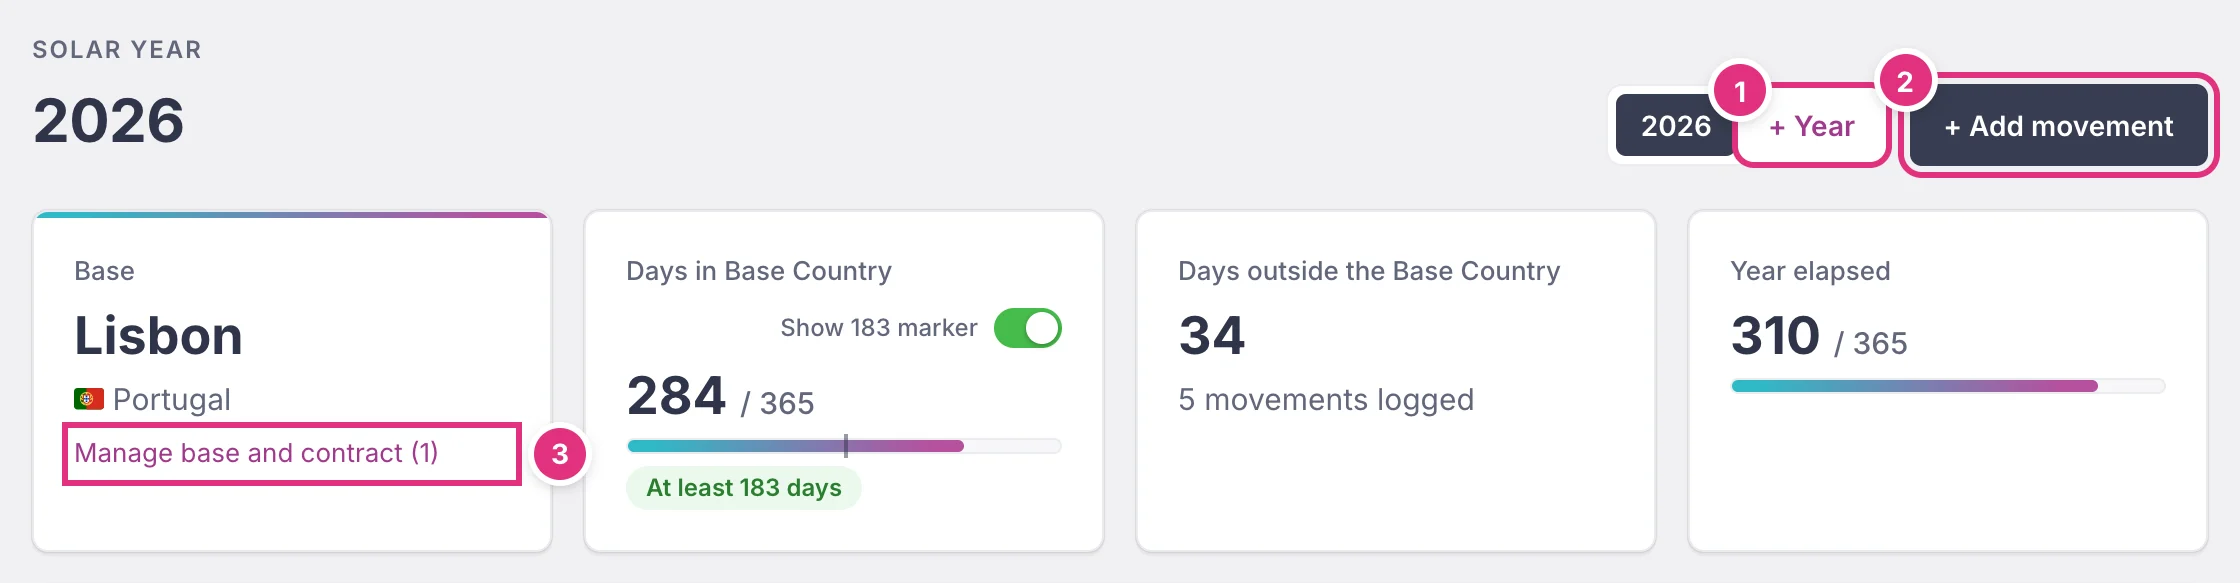
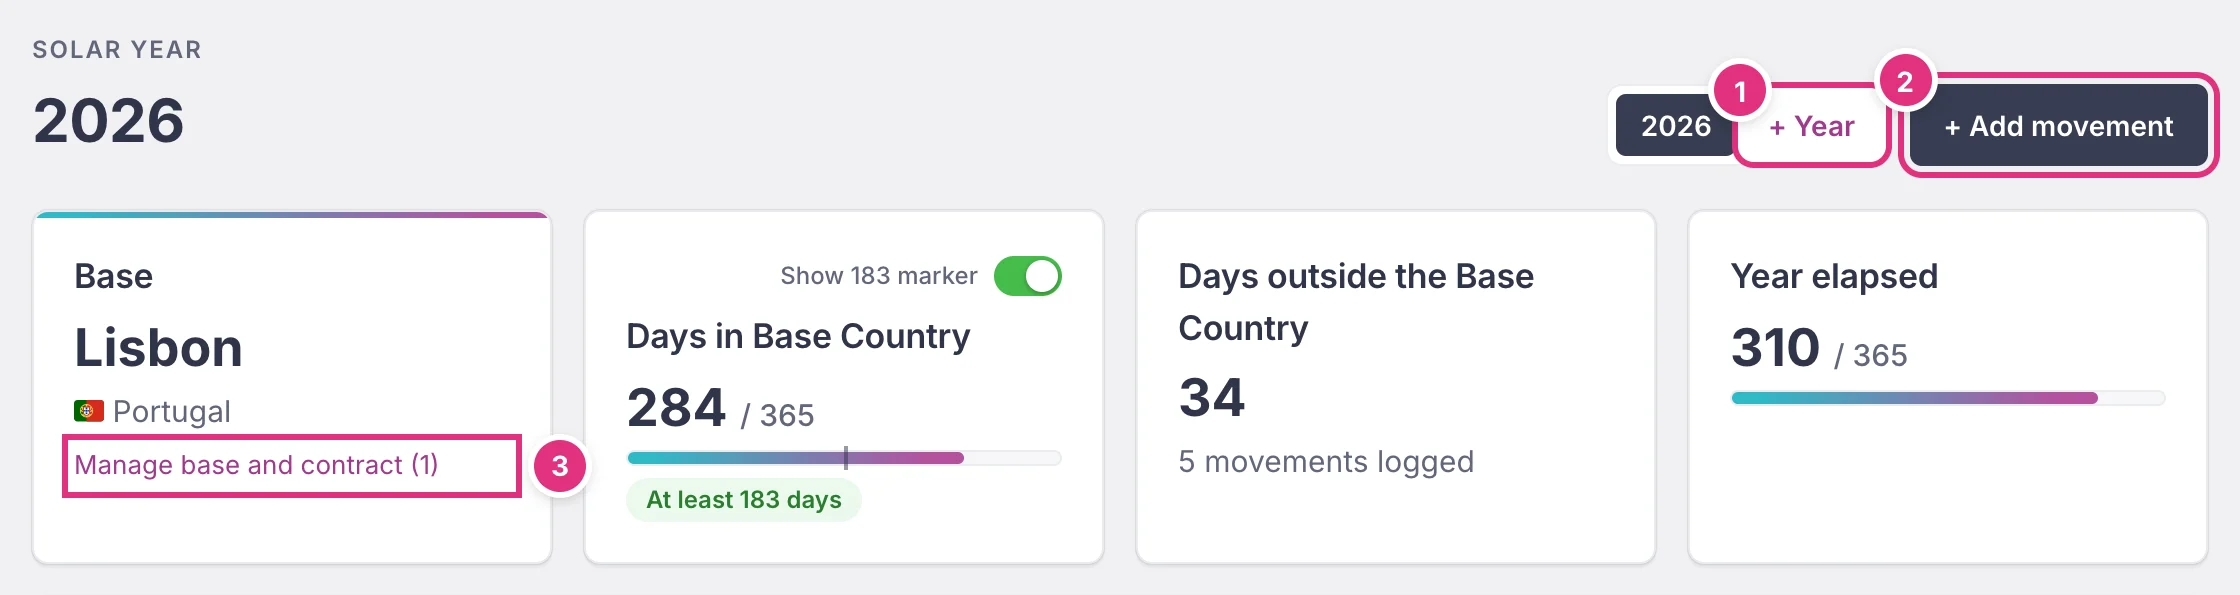
1.12.11: shared 183 marker switch on Days per Country, card titles, Back keeps saved theme and marker

diff --git a/templates/dashboard.html b/templates/dashboard.html
@@ -18,7 +18,7 @@
   </div>
 </div>
 
-<section class="stats">
+<section class="stats year-stats">
   <div class="card stat stat-base">
     <p class="stat-label">Base</p>
     <p class="stat-value">{{ y.base_city }}</p>
@@ -27,20 +27,20 @@
   </div>
   <div class="card stat">
     <div class="stat-head">
-      <p class="stat-label">Days in Base Country</p>
       {# Shown by theme.js; the choice is kept in this browser (theme-init.js applies it before
          the page is drawn). Without JavaScript the marker always shows. #}
       <button type="button" class="switch" role="switch" aria-checked="true" data-marker-switch hidden><span class="switch-label">Show {{ stats.threshold }} marker</span><span class="switch-track" aria-hidden="true"><span class="switch-thumb"></span></span></button>
+      <p class="stat-label">Days in Base Country</p>
     </div>
     <p class="stat-value">{{ stats.base_days }} <span class="muted stat-of">/ {{ stats.total }}</span></p>
     <div class="meter" aria-hidden="true">
       <span style="width: {{ (stats.base_days * 100 / stats.total) | round(1) }}%"></span>
-      <i class="base-marker" style="left: {{ (stats.threshold * 100 / stats.total) | round(1) }}%"></i>
+      <i class="day-marker" style="left: {{ (stats.threshold * 100 / stats.total) | round(1) }}%"></i>
     </div>
     {% if stats.base_ok %}
-      <p class="pill pill-ok base-marker">At least {{ stats.threshold }} days</p>
+      <p class="pill pill-ok day-marker">At least {{ stats.threshold }} days</p>
     {% else %}
-      <p class="pill pill-warn base-marker">{{ stats.threshold - stats.base_days }} day{{ '' if stats.threshold - stats.base_days == 1 else 's' }} short of {{ stats.threshold }}</p>
+      <p class="pill pill-warn day-marker">{{ stats.threshold - stats.base_days }} day{{ '' if stats.threshold - stats.base_days == 1 else 's' }} short of {{ stats.threshold }}</p>
     {% endif %}
   </div>
   <div class="card stat">
@@ -215,8 +215,10 @@
   <section class="card days-card">
     <div class="card-head">
       <h2>Days per Country</h2>
+      {# The same setting as the switch of Days in Base Country: both move together. #}
+      <button type="button" class="switch" role="switch" aria-checked="true" data-marker-switch hidden><span class="switch-label">Show {{ stats.threshold }} marker</span><span class="switch-track" aria-hidden="true"><span class="switch-thumb"></span></span></button>
     </div>
-    <p class="muted small">A day shared by two stays, such as a travel day, counts toward the stay that started later. The marker shows the {{ stats.threshold }} day line.</p>
+    <p class="muted small">A day shared by two stays, such as a travel day, counts toward the stay that started later.</p>
     <ul class="bars">
       {% for r in stats.rows %}
       <li>
@@ -226,7 +228,7 @@
         </div>
         <div class="meter {% if r.over_threshold and not r.is_base %}meter-hot{% endif %}">
           <span style="width: {{ r.pct }}%"></span>
-          <i style="left: {{ (stats.threshold * 100 / stats.total) | round(1) }}%"></i>
+          <i class="day-marker" style="left: {{ (stats.threshold * 100 / stats.total) | round(1) }}%"></i>
         </div>
       </li>
       {% endfor %}

diff --git a/static/js/theme.js b/static/js/theme.js
@@ -17,20 +17,36 @@
     });
   }
 
-  // The "Show 183 marker" switch of the Days in Base Country card: off hides the marker and its
-  // message (.base-marker) through data-marker on <html>, which theme-init.js sets again on the
-  // next page before it is drawn. Kept in this browser, for every year.
-  document.querySelectorAll("[data-marker-switch]").forEach(function (sw) {
-    var sync = function () { sw.setAttribute("aria-checked", root.getAttribute("data-marker") === "off" ? "false" : "true"); };
-    sync();
+  // The "Show 183 marker" switches of the Days in Base Country and Days per Country cards, one
+  // setting for both: off hides the marker and its message (.day-marker) through data-marker on
+  // <html>, which theme-init.js sets again on the next page before it is drawn. Kept in this
+  // browser, for every year; flipping one moves the other too.
+  var markerSwitches = document.querySelectorAll("[data-marker-switch]");
+  var syncMarkerSwitches = function () {
+    var on = root.getAttribute("data-marker") === "off" ? "false" : "true";
+    markerSwitches.forEach(function (sw) { sw.setAttribute("aria-checked", on); });
+  };
+  // A page brought back by the Back button (back/forward cache) keeps the theme and marker it
+  // had then, although they may have been changed on another page since: apply the saved ones
+  // again, as theme-init.js does on a fresh load.
+  window.addEventListener("pageshow", function (e) {
+    if (!e.persisted) return;
+    var theme = null, off = false;
+    try { theme = localStorage.getItem("theme"); off = localStorage.getItem("nl_marker") === "off"; } catch (x) {}
+    if (theme === "light" || theme === "dark") root.setAttribute("data-theme", theme); else root.removeAttribute("data-theme");
+    if (off) root.setAttribute("data-marker", "off"); else root.removeAttribute("data-marker");
+    syncMarkerSwitches();
+  });
+  markerSwitches.forEach(function (sw) {
     sw.hidden = false;
     sw.addEventListener("click", function () {
       var off = root.getAttribute("data-marker") !== "off";
       if (off) root.setAttribute("data-marker", "off"); else root.removeAttribute("data-marker");
       try { if (off) localStorage.setItem("nl_marker", "off"); else localStorage.removeItem("nl_marker"); } catch (e) {}
-      sync();
+      syncMarkerSwitches();
     });
   });
+  syncMarkerSwitches();
 
   // The support button in the header glows slowly until this browser has opened the support
   // pages once, so people notice it is new. A new reply makes it glow again (set by the server).

diff --git a/static/css/style.css b/static/css/style.css
@@ -306,14 +306,17 @@ main:focus { outline: none; }
 .stats { display: grid; grid-template-columns: repeat(4, 1fr); gap: 16px; margin-bottom: 4px; }
 .stat { display: flex; flex-direction: column; gap: 6px; }
 .stat-label { font-size: 13px; color: var(--muted); font-weight: 500; }
+.year-stats .stat-label { font-size: 17px; font-weight: 600; letter-spacing: -0.01em; color: var(--text); }  /* the dashboard's four cards: the same as the card titles below (h2) */
 .stat-value { font-size: 26px; font-weight: 700; line-height: 1.2; overflow-wrap: anywhere; }
 .stat-of { font-size: 15px; font-weight: 500; }
 .stat-base { position: relative; overflow: hidden; }
 .stat-base::before { content: ""; position: absolute; inset: 0 0 auto 0; height: 3px; background: var(--gradient); }
-.stat-head { display: flex; align-items: center; justify-content: space-between; flex-wrap: wrap; gap: 6px 10px; }
+.stat-head { display: flex; flex-direction: column; gap: 6px; }
+.stat-head .switch { align-self: flex-end; }  /* above the title, at the top right */
 
 /* iOS style switch (role="switch", aria-checked), here for the 183 day marker of the Days in
-   Base Country card. Off hides everything marked .base-marker; theme-init.js sets data-marker
+   Base Country and Days per Country cards, one setting for both. Off hides everything marked
+   .day-marker; theme-init.js sets data-marker
    on <html> before the page is drawn, so the saved choice never flashes. */
 .switch {
   display: inline-flex; align-items: center; gap: 8px; margin-left: auto; padding: 2px 0; border: 0;
@@ -328,7 +331,7 @@ main:focus { outline: none; }
 .switch[aria-checked="true"] .switch-thumb { transform: translateX(14px); }
 @media (prefers-reduced-motion: reduce) { .switch-track, .switch-thumb { transition: none; } }
 @media (forced-colors: active) { .switch-track { border: 1px solid CanvasText; } .switch-thumb { forced-color-adjust: none; background: CanvasText; } }
-[data-marker="off"] .base-marker { display: none !important; }
+[data-marker="off"] .day-marker { display: none !important; }
 
 .meter { position: relative; height: 8px; border-radius: 4px; background: var(--surface-2); border: 1px solid var(--border); overflow: visible; }
 .meter span { display: block; height: 100%; border-radius: 4px; background: var(--gradient); }

diff --git a/templates/docs.html b/templates/docs.html
@@ -196,7 +196,7 @@
           <h3>The four cards</h3>
           <ul>
             <li><strong>Base</strong>: your base city and country, and the link to manage them.</li>
-            <li><strong>Days in Base Country</strong>: days counted for your base, out of the days in the year, with the {{ threshold }} day marker. The <strong>Show {{ threshold }} marker</strong> switch hides the marker and its message; this browser remembers it.</li>
+            <li><strong>Days in Base Country</strong>: days counted for your base, out of the days in the year, with the {{ threshold }} day marker. The <strong>Show {{ threshold }} marker</strong> switch, here and on Days per Country, hides the marker and its message on both cards; this browser remembers it.</li>
             <li><strong>Days outside the Base Country</strong>: days counted for every other country.</li>
             <li><strong>Year elapsed</strong>: how far into the year today is.</li>
           </ul>

diff --git a/tests/test_marker_switch.py b/tests/test_marker_switch.py
@@ -19,7 +19,7 @@ class MarkerSwitchTests(AppTestCase):
 
     def card(self, year):
         html = self.client.get(f"/year/{year}").get_data(as_text=True)
-        start = html.index('<p class="stat-label">Days in Base Country</p>')
+        start = html.index('<div class="stat-head">')
         return html, html[start:html.index('<div class="card stat">', start)]
 
     def test_the_card_has_the_switch_and_marks_what_it_hides(self):
@@ -29,31 +29,72 @@ class MarkerSwitchTests(AppTestCase):
         self.assertIn('<button type="button" class="switch" role="switch" aria-checked="true" '
                       f'data-marker-switch hidden><span class="switch-label">Show {threshold} marker</span>',
                       card)
-        self.assertIn('<i class="base-marker" style="left:', card)
-        self.assertIn('<p class="pill pill-warn base-marker">', card)
+        self.assertIn('<i class="day-marker" style="left:', card)
+        self.assertIn('<p class="pill pill-warn day-marker">', card)
         self.assertIn('<p class="stat-label">Days outside the Base Country</p>', html)
+        # The same switch on Days per Country, one setting for both.
+        self.assertEqual(html.count(f'data-marker-switch hidden><span class="switch-label">Show {threshold} marker</span>'), 2)
         self.assertNotIn("Days abroad", html)
+
+    def test_the_switch_sits_above_the_title(self):
+        self.new_year(2030)
+        _, card = self.card(2030)
+        self.assertLess(card.index("data-marker-switch"), card.index('<p class="stat-label">Days in Base Country</p>'))
+        css = read("static", "css", "style.css")
+        self.assertIn(".stat-head .switch { align-self: flex-end; }", css)
+        # The four top cards' titles look like the card titles below them (h2).
+        self.assertIn(".year-stats .stat-label { font-size: 17px; font-weight: 600; letter-spacing: -0.01em; color: var(--text); }", css)
+        self.assertIn(".stat-label { font-size: 13px; color: var(--muted); font-weight: 500; }", css)  # admin keeps its own
 
     def test_the_pill_of_a_year_over_the_line_is_marked_too(self):
         self.new_year(2020)  # a past year: every day counts toward the base
         _, card = self.card(2020)
-        self.assertIn('<p class="pill pill-ok base-marker">At least', card)
+        self.assertIn('<p class="pill pill-ok day-marker">At least', card)
+
+
+class CountryMarkerTests(AppTestCase):
+    def test_every_country_bar_tick_is_a_marker_and_the_help_is_short(self):
+        self.signup()
+        self.new_year(2030, "Sofia", "Bulgaria")
+        self.add_movement(2030, "Rome", "Italy", "2030-03-01", "2030-03-05")
+        html = self.client.get("/year/2030").get_data(as_text=True)
+        card = html[html.index("<h2>Days per Country</h2>"):]
+        card = card[:card.index("</section>")]
+        self.assertIn("data-marker-switch hidden", card)
+        self.assertEqual(card.count('<i class="day-marker" style="left:'), 2)  # Bulgaria, Italy
+        self.assertEqual(card.count("<i "), 2)
+        self.assertIn('<p class="muted small">A day shared by two stays, such as a travel day, '
+                      'counts toward the stay that started later.</p>', card)
+        self.assertNotIn("The marker shows", html)
 
 
 class MarkerSwitchAssetTests(AppTestCase):
     def test_off_hides_the_marker_before_the_page_is_drawn(self):
         css = read("static", "css", "style.css")
-        self.assertIn('[data-marker="off"] .base-marker { display: none !important; }', css)
+        self.assertIn('[data-marker="off"] .day-marker { display: none !important; }', css)
         self.assertIn('.switch[aria-checked="true"] .switch-thumb { transform: translateX(14px); }', css)
         self.assertIn('.switch[aria-checked="true"] .switch-track { background: var(--success); }', css)
         init = read("static", "js", "theme-init.js")
         self.assertIn('localStorage.getItem("nl_marker") === "off"', init)
         self.assertIn('setAttribute("data-marker", "off")', init)
 
+    def test_back_shows_the_saved_theme_and_marker(self):
+        # A page restored by the Back button kept the theme and marker it had then: switching
+        # either one on another page and going back showed the old choice until a reload.
+        js = read("static", "js", "theme.js")
+        block = js[js.index('window.addEventListener("pageshow", function (e) {\n    if (!e.persisted) return;\n    var theme'):][:700]
+        self.assertIn('localStorage.getItem("theme")', block)
+        self.assertIn('localStorage.getItem("nl_marker") === "off"', block)
+        self.assertIn('root.setAttribute("data-theme", theme); else root.removeAttribute("data-theme");', block)
+        self.assertIn('root.setAttribute("data-marker", "off"); else root.removeAttribute("data-marker");', block)
+        self.assertIn("syncMarkerSwitches();", block)
+
     def test_the_switch_keeps_the_choice_in_this_browser(self):
         js = read("static", "js", "theme.js")
-        block = js[js.index('document.querySelectorAll("[data-marker-switch]")'):][:900]
+        block = js[js.index('var markerSwitches = document.querySelectorAll("[data-marker-switch]");'):][:2200]
         self.assertIn("sw.hidden = false;", block)
+        # Flipping one switch moves every switch on the page.
+        self.assertIn('markerSwitches.forEach(function (sw) { sw.setAttribute("aria-checked", on); });', block)
         self.assertIn('localStorage.setItem("nl_marker", "off")', block)
         self.assertIn('localStorage.removeItem("nl_marker")', block)
-        self.assertIn('sw.setAttribute("aria-checked"', block)
+        self.assertIn("syncMarkerSwitches();", block)

diff --git a/tests/test_pagination.py b/tests/test_pagination.py
@@ -127,7 +127,7 @@ class DashboardPaginationTests(AppTestCase):
     def test_stats_are_the_same_on_every_page(self):
         self.add_many(23)
         def stats(html):
-            return (re.search(r'<section class="stats">.*?</section>', html, re.S).group(0),
+            return (re.search(r'<section class="stats year-stats">.*?</section>', html, re.S).group(0),
                     re.search(r'<ul class="bars">.*?</ul>', html, re.S).group(0))
         first = stats(self.get("/year/2025"))
         for query in ["?page=2", "?page=3", "?per_page=50"]:

diff --git a/CHANGELOG.md b/CHANGELOG.md
@@ -7,14 +7,21 @@ All notable changes to this project are documented in this file.
 ### Added
 
 - **Calendar** on the year dashboard, before the Map, with a calendar icon and its year in the title, such as **Calendar (2027)**. It starts folded and opens with a click on its head. It shows the selected year's 12 months (four a row on wide screens, then three, two and one), each day in the color of the country it counts for, with the same rules as Days per Country: a shared day goes to the stay that started later, past days without a stay are the base, and days still to come without a stay are grey ("Not planned yet"). A legend lists each country with its flag and days; pointing at a day shows its date, country and city, and today has an outline. The colors are set for the light and dark themes, with every day number readable. The documentation has a section on it.
-- **Show 183 marker** switch, iOS style, in the top right of the Days in Base Country card: off hides the 183 day tick and its message ("N days short of 183", "At least 183 days"). This browser remembers the choice for every year, applied before the page is drawn so it never flashes.
+- **Show 183 marker** switch, iOS style, in the top right of the Days in Base Country and Days per Country cards, one setting for both: off hides the 183 day tick and its message ("N days short of 183", "At least 183 days") and the tick on every country bar. This browser remembers the choice for every year, applied before the page is drawn so it never flashes.
 
 ### Changed
 
 - The cards **Days in base country** and **Days abroad** are now **Days in Base Country** and **Days outside the Base Country**. The accountant package keeps its wording.
+- The titles of the four top cards (Base, Days in Base Country, Days outside the Base Country, Year elapsed) have the style of the card titles below them, such as Days per Country; on Days in Base Country the switch sits above the title.
 - The lines in the Calendar and Map heads read **Your 2027 day-by-day plan** and **Your 2027 locations on the map**, with the year of the open tab.
+- The Days per Country help text is shorter: "A day shared by two stays, such as a travel day, counts toward the stay that started later."
 
 ### Fixed
+
+Found in a review of the interface, including the new switch and calendar (2 bugs):
+
+- **Low.** After switching the 183 marker on another page, the Back button showed the old setting (the browser restores the page as it was) until a reload, with both switches saying the wrong state. The saved setting is applied again when a page comes back.
+- **Low.** The same with the light and dark theme: Back could show a page in the theme you had just left. It now shows the saved theme.
 
 Found in a review of the new calendar (2 bugs):
 
